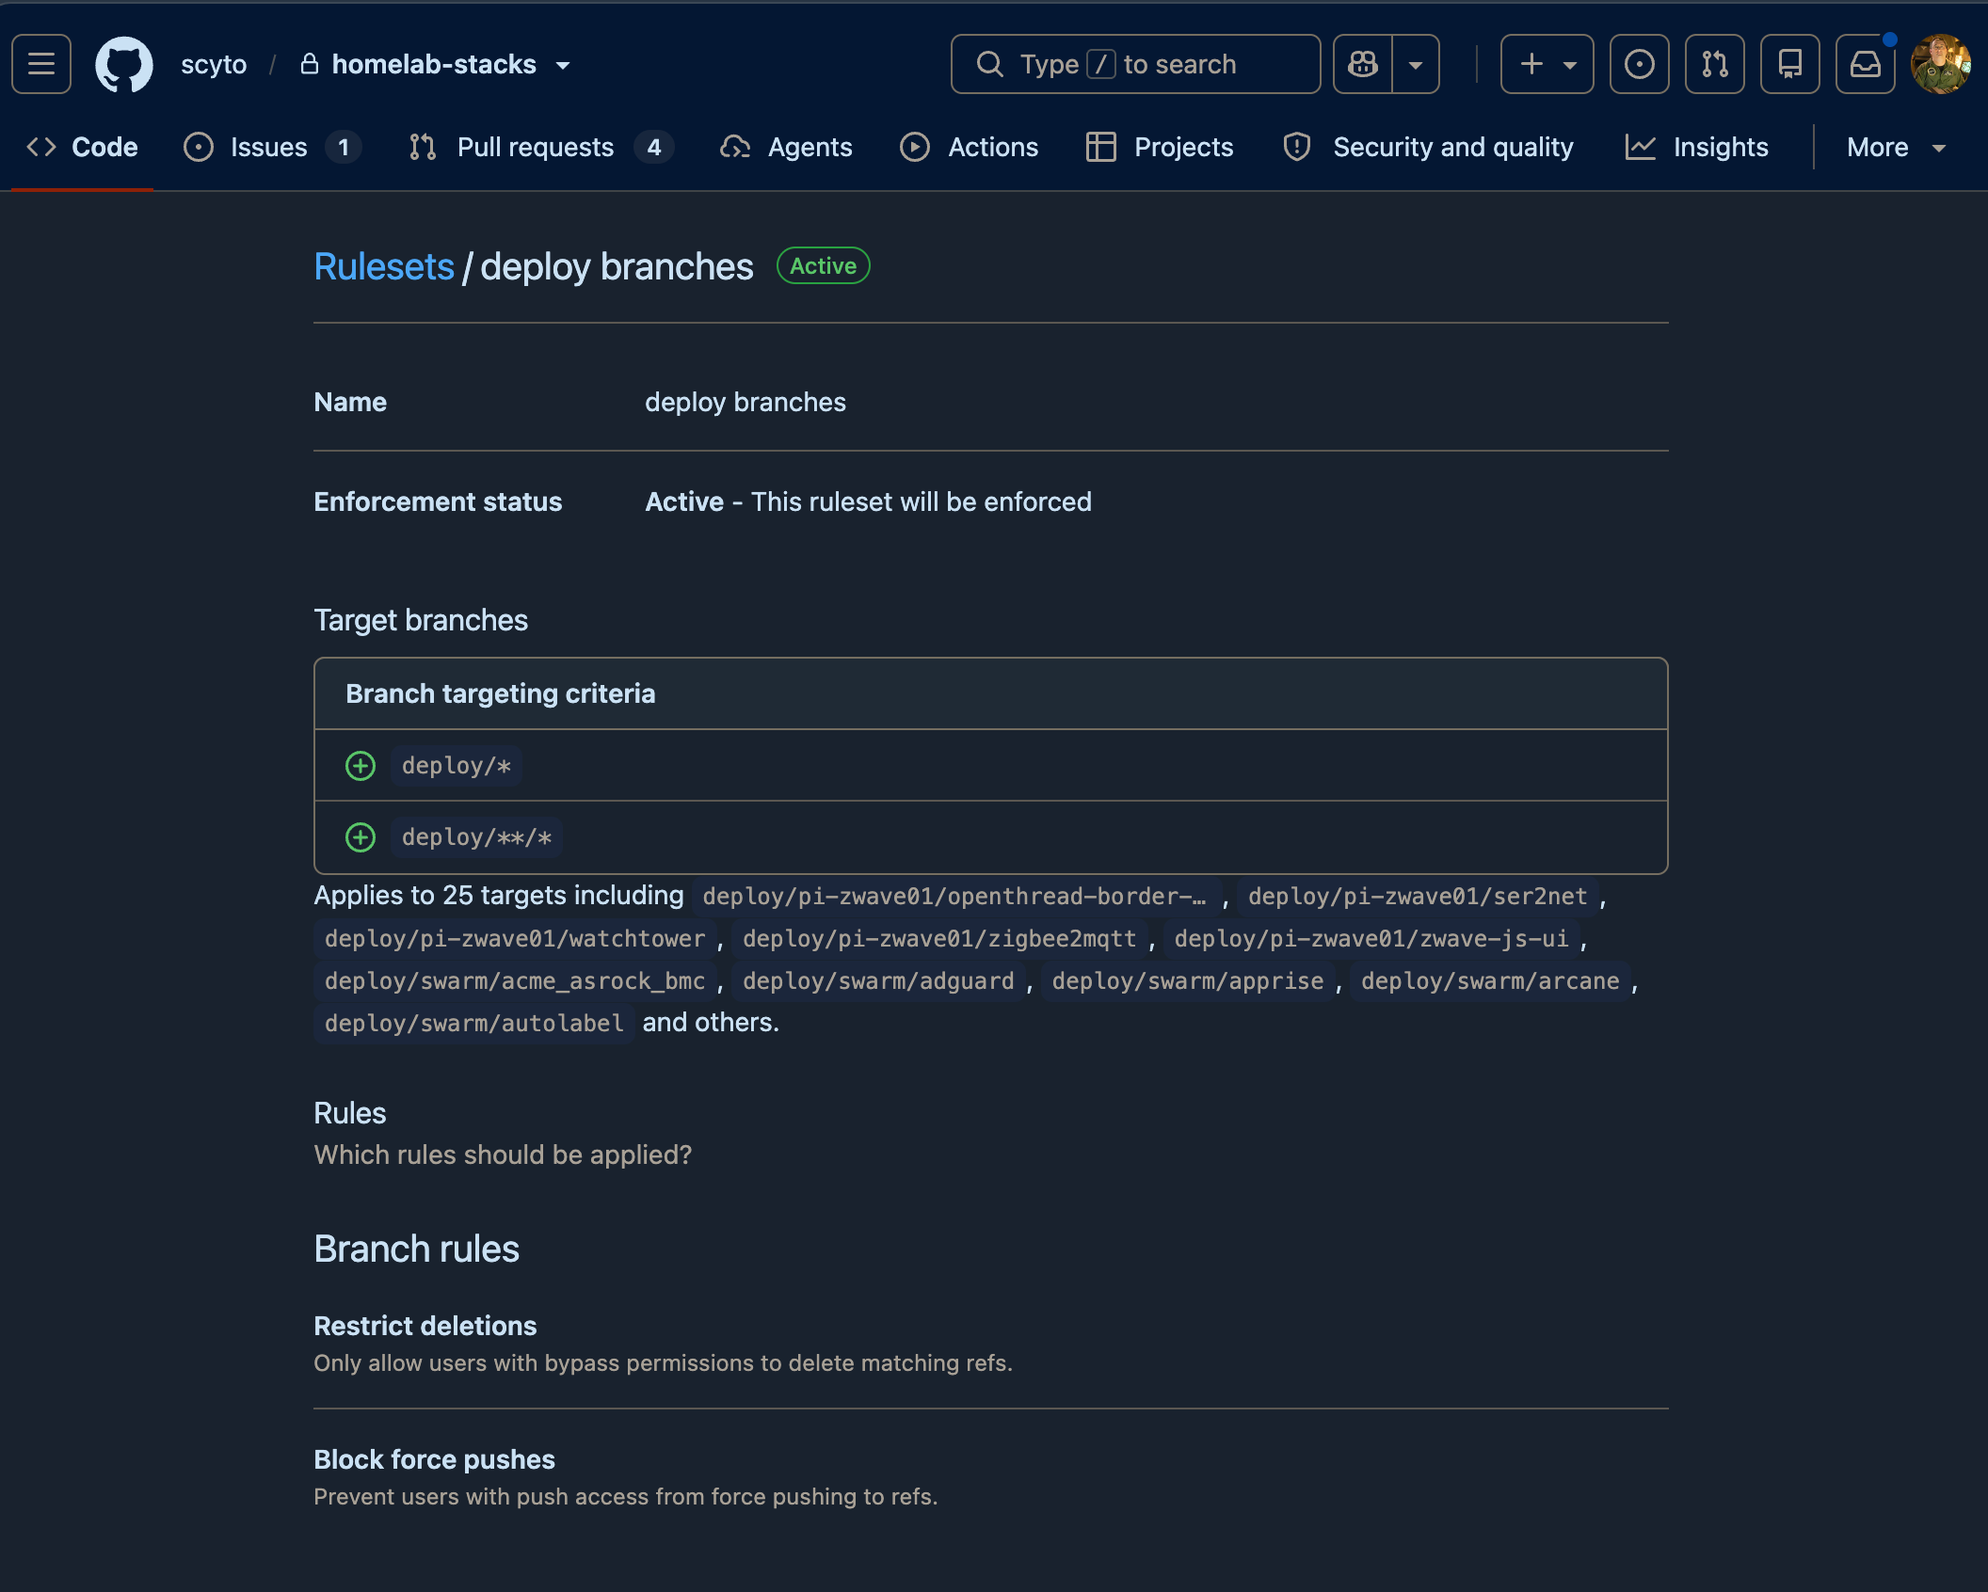
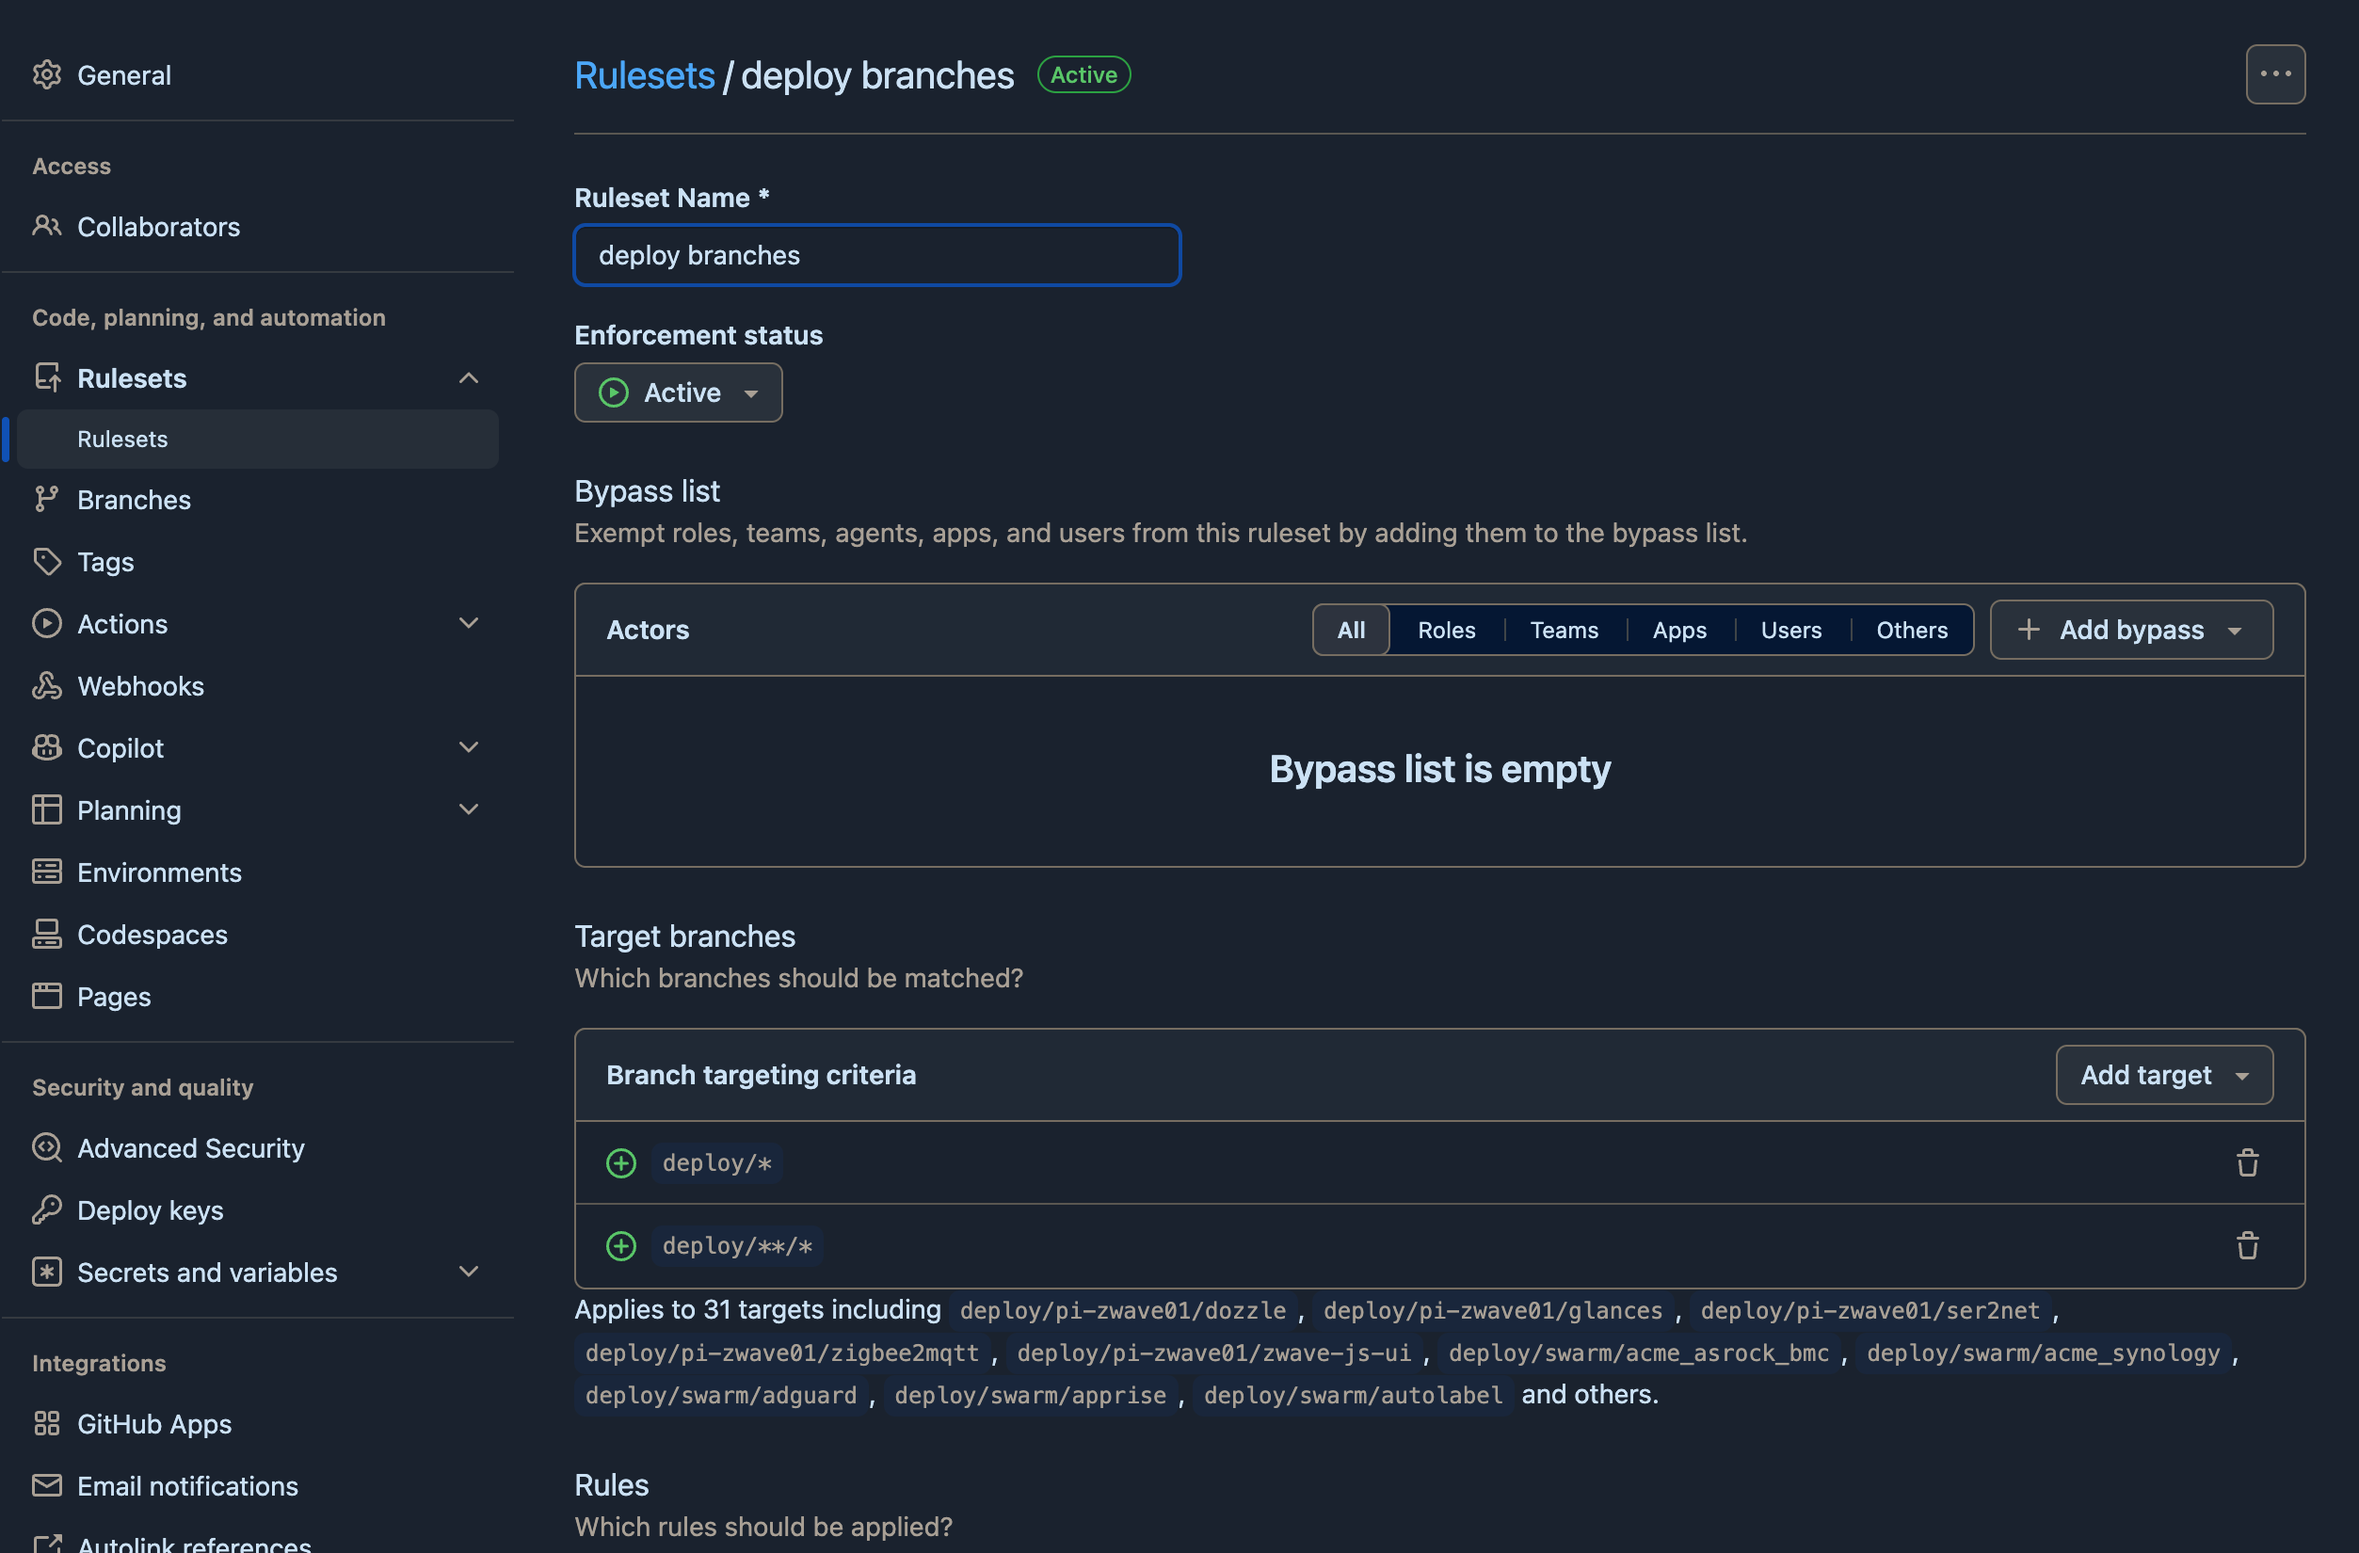
Say why Force redeployment stays off, and recapture the ruleset screenshot (#24)
* Say why Force redeployment stays off, and recapture the ruleset screenshot

The page explained only the Re-pull toggle. Force redeployment redeploys on
every poll whether git changed or not, per Portainer's tooltip; it does put
back a stack changed outside git, which polling cannot see, but that is rare
and Pull and redeploy fixes it.

The ruleset screenshot is current again: active, both target patterns,
applying to 31 branches.

* Put the ruleset screenshot in the ruleset section

It was attached to the Force redeployment paragraph in section 6; the
ruleset it shows is section 5. From review.

---------

diff --git a/docs/docker/gitops-with-portainer.md b/docs/docker/gitops-with-portainer.md
@@ -255,6 +255,8 @@ the rules for `main` itself, require a PR and require your ci check, are worth
 doing once renovate is opening PRs, see
 [image updates with renovate](image-updates-renovate.md#lock-the-branches-down-last).
 
+![the deploy branches ruleset, active, with both target patterns deploy/* and deploy/**/*, applying to 31 branches](../assets/img/gitops-ruleset-targets.png)
+
 ## 6. cut a stack over
 
 this is a delete and recreate, not an edit. portainer always deploys on create.
@@ -294,8 +296,12 @@ then per stack:
 
 the same fields on a stack that is already git backed, so you can see what it
 looks like once it is working. note `Re-pull image` and `Force redeployment` are
-both **off**: renovate changes the tag in git, so portainer has nothing to
-re-pull behind your back.
+both **off**. renovate changes the tag in git, so portainer has nothing to
+re-pull behind your back, and force redeployment redeploys on every poll whether
+git changed or not, per portainer's own tooltip: a regular stack is "redeployed
+whenever triggered, without checking for docker-compose file changes". it does
+put back a stack that was changed or removed outside git, which polling cannot
+see, but that is rare and `pull and redeploy` fixes it when it happens.
 
 ![portainer stack details for adguard, gitops updates on, polling every 5m, watching refs/heads/deploy/swarm/adguard](../assets/img/gitops-portainer-stack-details.png)
 
